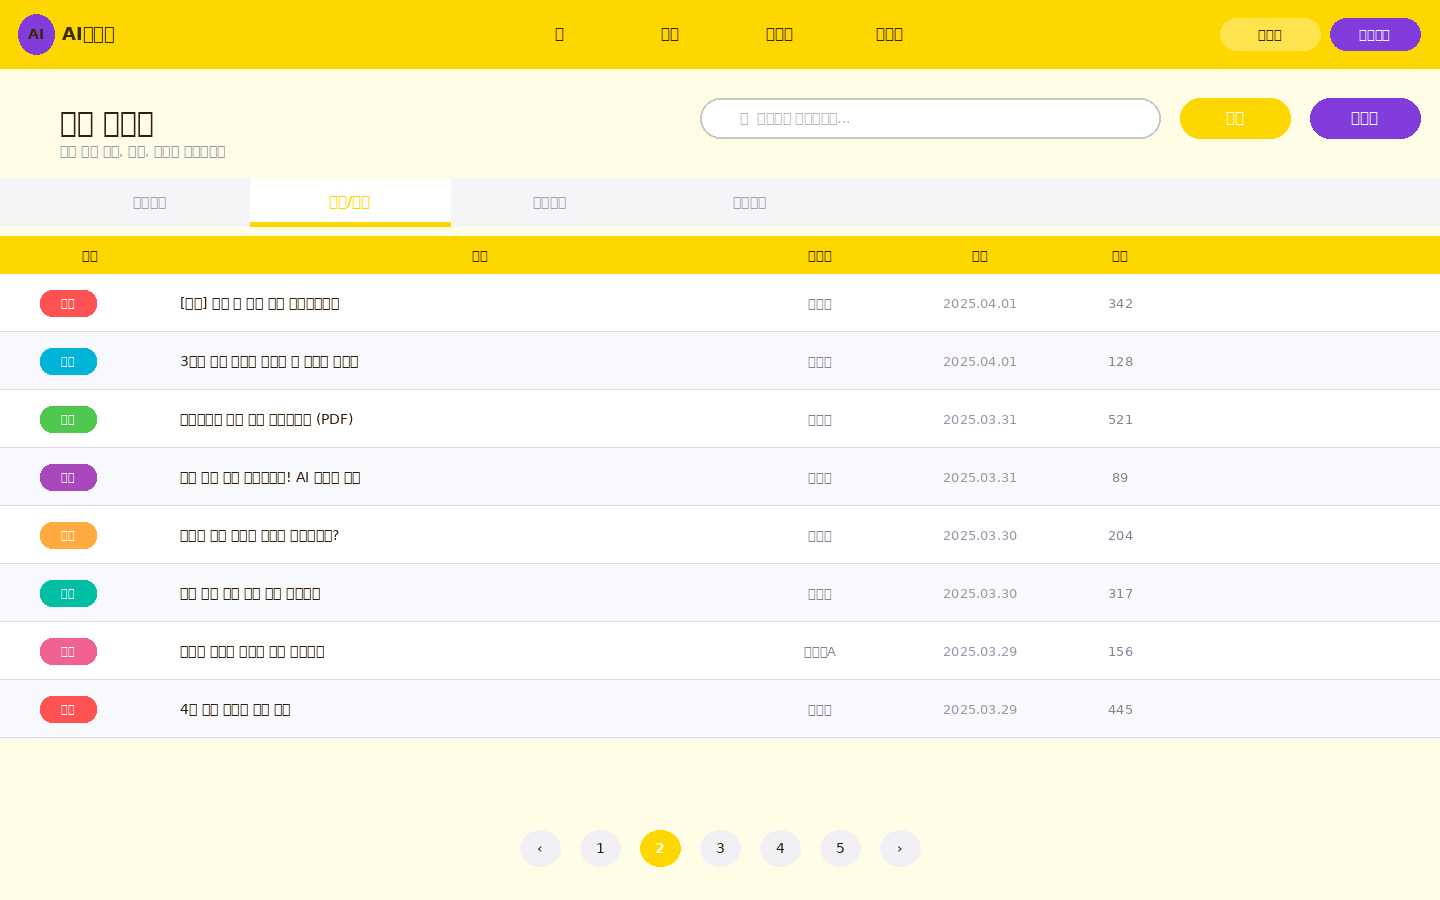
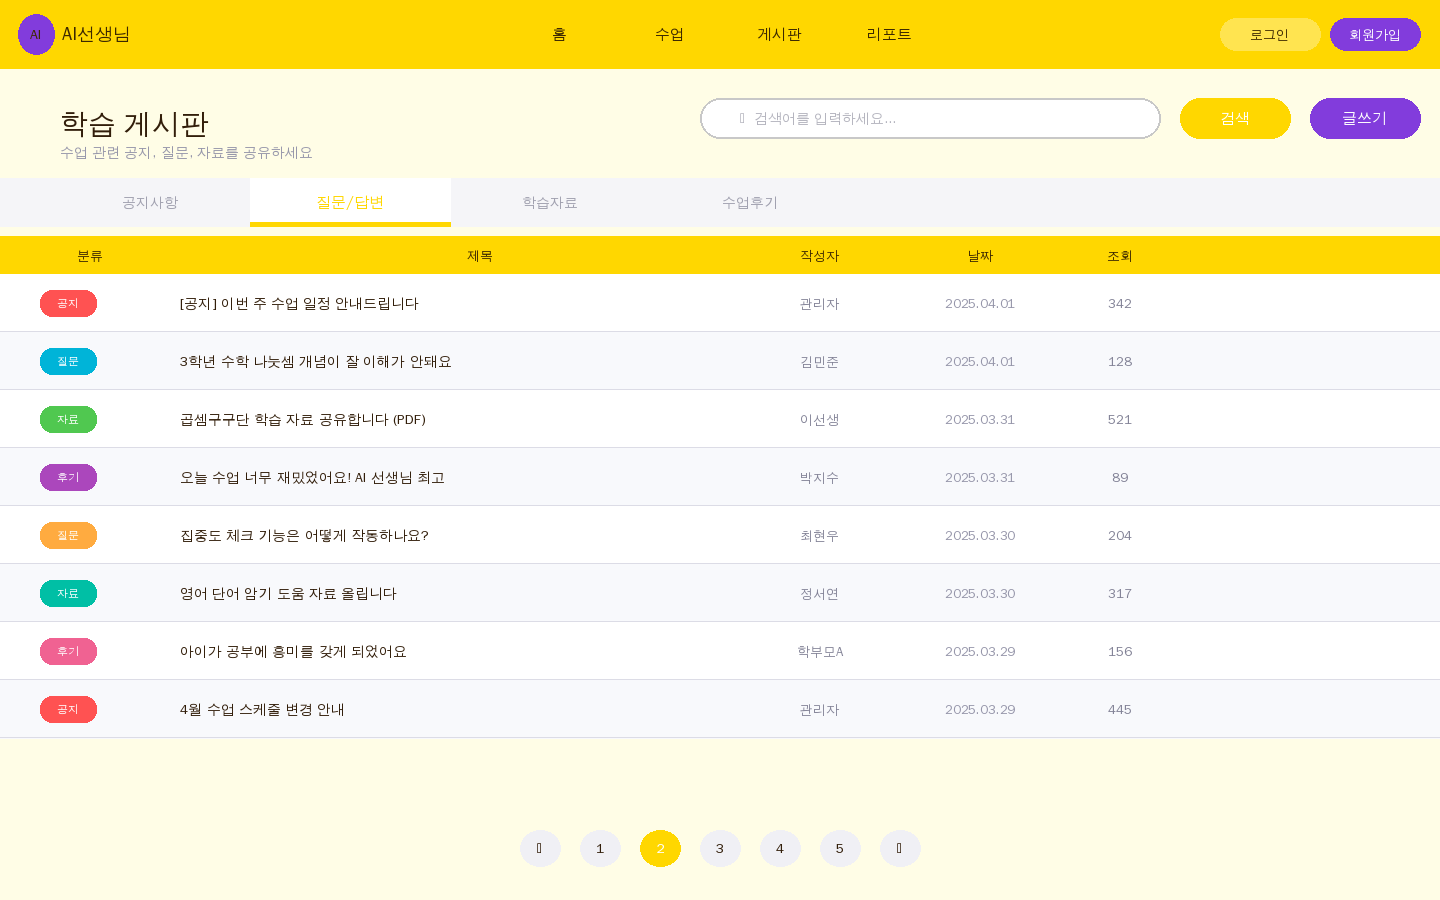
Fix Korean font rendering - switch to WenQuanYi Zen Hei font
DejaVu 폰트는 한글 미지원으로 깨짐 현상 발생.
WenQuanYi Zen Hei (wqy-zenhei.ttc) 폰트로 교체하여 한글 정상 출력.
15개 PNG 시안 전체 재생성.

https://claude.ai/code/session_01CcaJSG7jdhHG6YS5zA7AmY

diff --git a/generate_designs.py b/generate_designs.py
@@ -2,8 +2,8 @@ from PIL import Image, ImageDraw, ImageFont
 import os, math
 
 W, H = 1440, 900
-FONT_REG  = "/usr/share/fonts/truetype/dejavu/DejaVuSans.ttf"
-FONT_BOLD = "/usr/share/fonts/truetype/dejavu/DejaVuSans-Bold.ttf"
+FONT_REG  = "/usr/share/fonts/truetype/wqy/wqy-zenhei.ttc"
+FONT_BOLD = "/usr/share/fonts/truetype/wqy/wqy-zenhei.ttc"
 OUT = "/home/user/ai-tutor-design/designs"
 os.makedirs(OUT, exist_ok=True)
 
